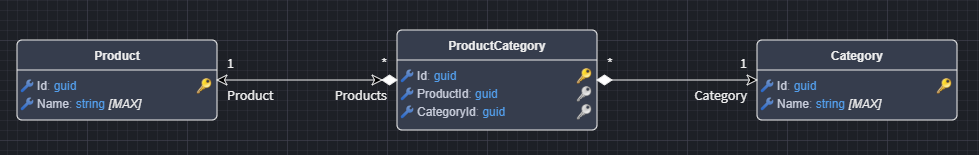
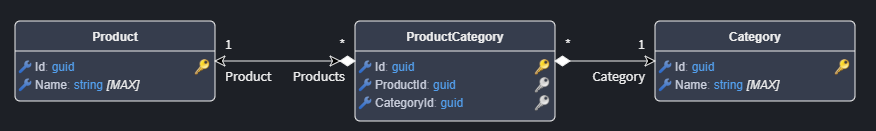
Updated images

Changed region(s): [[0.0, 0.1527, 0.9863, 0.9466], [0.3699, 0.3053, 0.4007, 0.3359]]

diff --git a/articles/whats-new/2026/03/index.md b/articles/whats-new/2026/03/index.md
@@ -55,7 +55,10 @@ Available from:
 
 ### Convert many-to-many associations to intermediate entities
 
+![Before Convert to Intermediate Entity](images/pre-convert-intermediate-entity.png)
+
 ![Suggestion to Convert to Intermediate Entity](images/suggestion-convert-intermediate-entity.png)
+
 ![Converted](images/converted-intermediate-entity.png)
 
 When modeling many-to-many relationships, a new `Convert to Intermediate Entity` suggestion (available in the Domain Designer) allows you to convert implicit join tables into explicitly modeled entities. Hover over any many-to-many association and select the suggestion to create an intermediate entity with two many-to-one associations, giving you full control over the join table structure for adding properties, indexes, or constraints.
